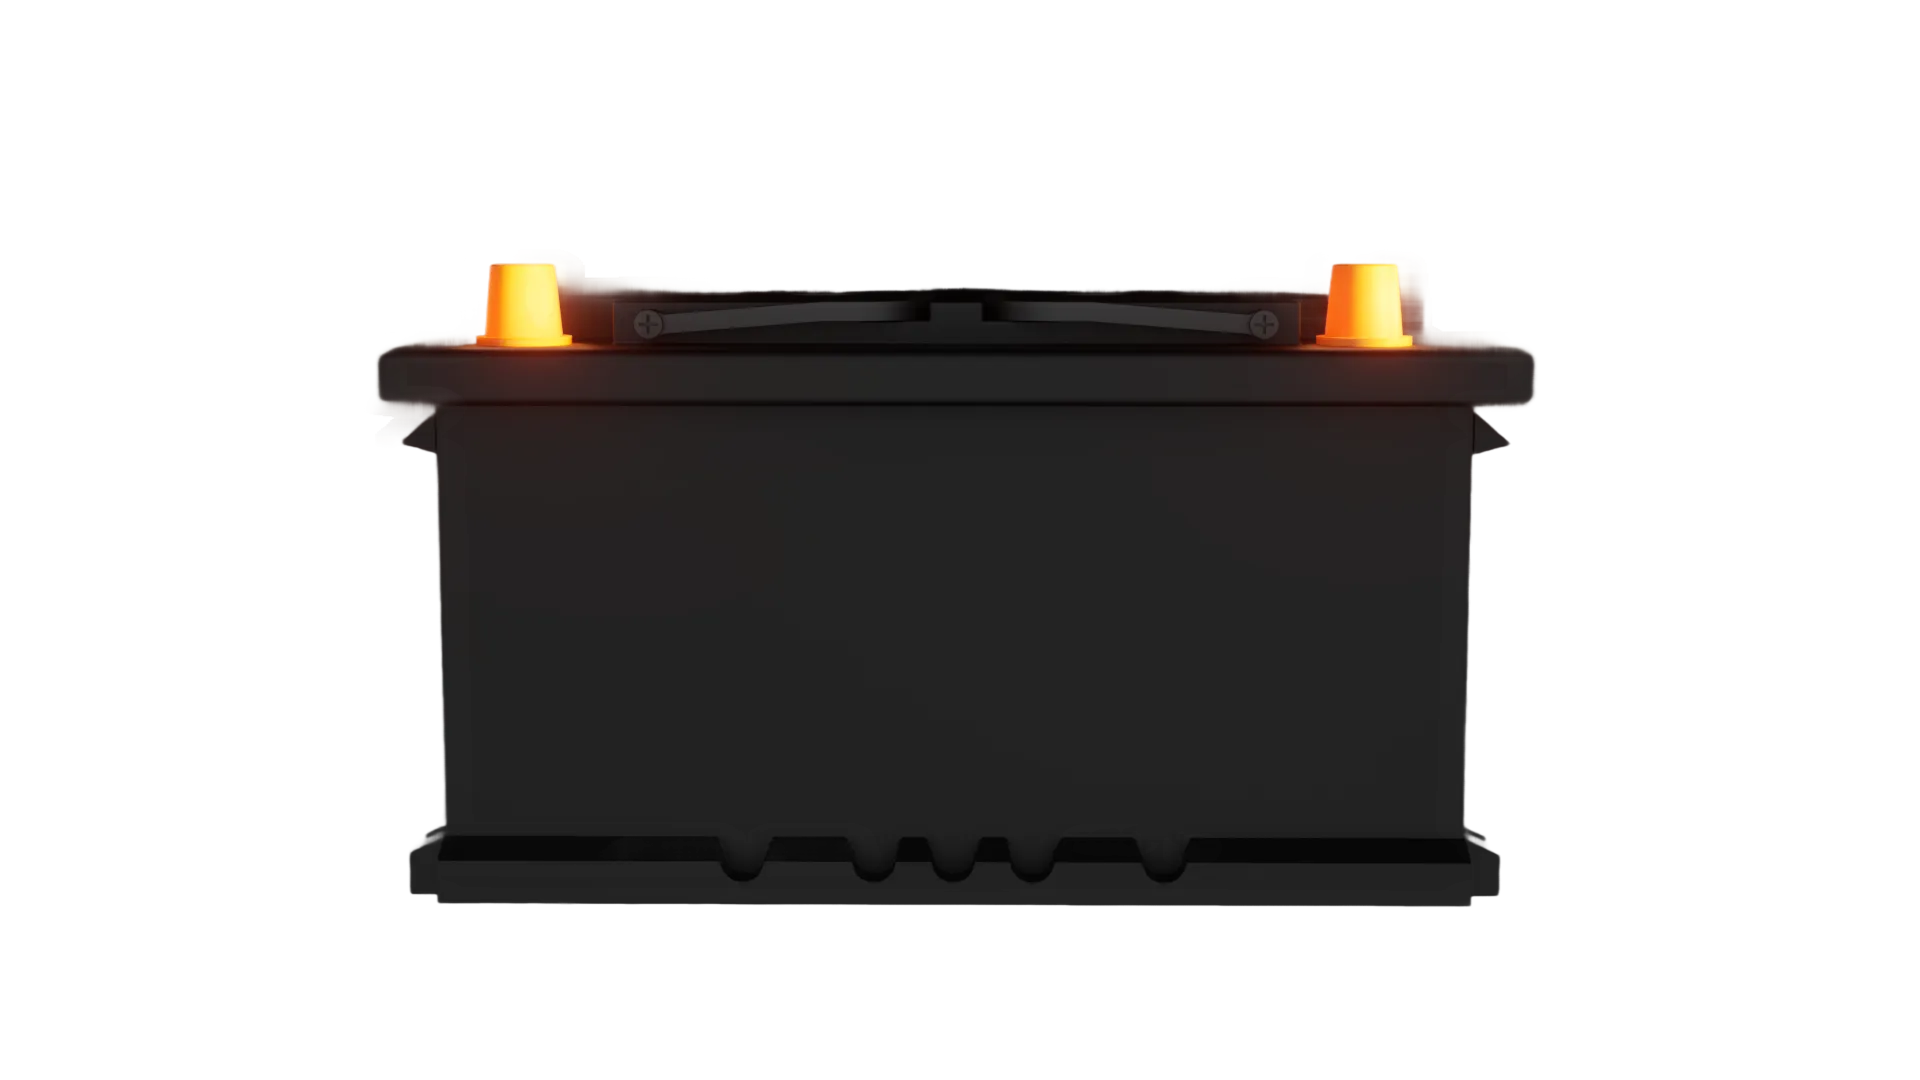
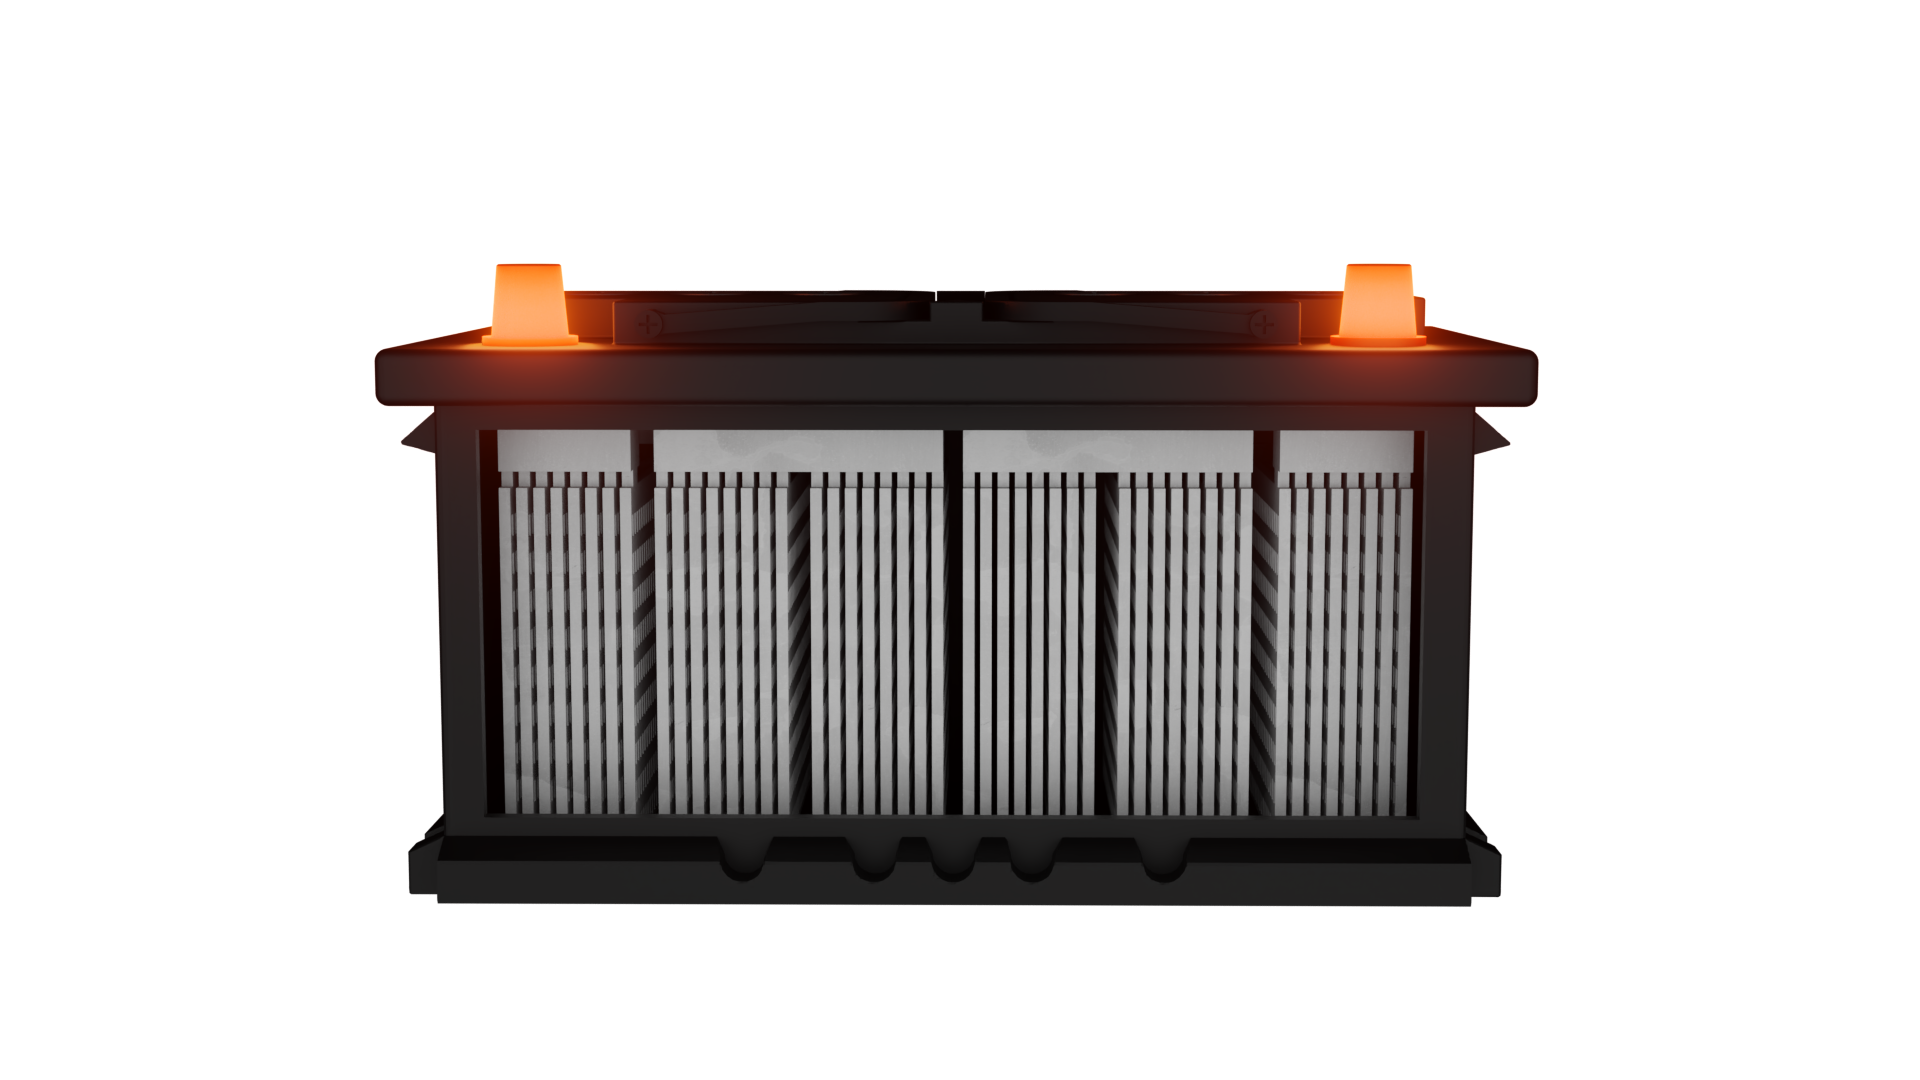
new commit

Changed region(s): [[0.1875, 0.2444, 0.8125, 0.7944], [0.4688, 0.2444, 0.5312, 0.275], [0.2188, 0.7639, 0.25, 0.7944]]

diff --git a/src/components/BuyBatteries.tsx b/src/components/BuyBatteries.tsx
@@ -13,6 +13,7 @@ const stageConfig: Record<BatteryStage, { label: string }> = {
 const batteryLayers = {
   chassis: '/Battery-At-Anystage/new.png',
   internal: '/Battery-At-Anystage/used.png',
+  scrap: '/Battery-At-Anystage/scrap.png',
 }
 
 const stageOrder: BatteryStage[] = ['new', 'used', 'scrap']
@@ -26,6 +27,7 @@ export default function BuyBatteries() {
   const sectionRef = useRef<HTMLElement | null>(null)
   const chassisRef = useRef<HTMLImageElement | null>(null)
   const internalRef = useRef<HTMLImageElement | null>(null)
+  const scrapRef = useRef<HTMLImageElement | null>(null)
   const labelsRef = useRef<HTMLDivElement | null>(null)
   const gsapContextRef = useRef<gsap.Context | null>(null)
   const timelineRef = useRef<gsap.core.Timeline | null>(null)
@@ -55,7 +57,8 @@ export default function BuyBatteries() {
     }
 
     const internal = internalRef.current
-    if (!internal || !gsapContextRef.current) {
+    const scrap = scrapRef.current
+    if (!internal || !scrap || !gsapContextRef.current) {
       setActiveStage(stage)
       return
     }
@@ -66,7 +69,8 @@ export default function BuyBatteries() {
     gsapContextRef.current.add(() => {
       setActiveStage(stage)
 
-      const internalOpacity = stage === 'new' ? 0 : stage === 'used' ? 0.4 : 1
+      const internalOpacity = stage === 'new' ? 0 : stage === 'used' ? 0.4 : 0
+      const scrapOpacity = stage === 'scrap' ? 1 : 0
 
       const tl = gsap.timeline({
         defaults: { duration: transitionDuration, ease: 'power2.inOut' },
@@ -76,6 +80,7 @@ export default function BuyBatteries() {
       })
 
       tl.to(internal, { opacity: internalOpacity }, 0)
+      tl.to(scrap, { opacity: scrapOpacity }, 0)
 
       const activeLabel = labelsRef.current?.querySelector<HTMLButtonElement>(
         `[data-stage="${stage}"]`
@@ -109,12 +114,15 @@ export default function BuyBatteries() {
 
   useEffect(() => {
     const internal = internalRef.current
-    if (!internal) {
+    const scrap = scrapRef.current
+    if (!internal || !scrap) {
       return
     }
 
-    const internalOpacity = activeStage === 'new' ? 0 : activeStage === 'used' ? 0.4 : 1
+    const internalOpacity = activeStage === 'new' ? 0 : activeStage === 'used' ? 0.4 : 0
+    const scrapOpacity = activeStage === 'scrap' ? 1 : 0
     gsap.set(internal, { opacity: internalOpacity })
+    gsap.set(scrap, { opacity: scrapOpacity })
   }, [activeStage])
 
   useEffect(() => {
@@ -223,10 +231,6 @@ export default function BuyBatteries() {
               ref={chassisRef}
               alt="Battery chassis"
               className="absolute inset-0 h-full w-full object-contain"
-              animate={{
-                filter: activeStage === 'scrap' ? 'grayscale(1) brightness(0.85)' : 'grayscale(0) brightness(1)',
-              }}
-              transition={{ duration: 0.6, ease: [0.19, 1, 0.22, 1] }}
               src={batteryLayers.chassis}
             />
             <img
@@ -235,6 +239,13 @@ export default function BuyBatteries() {
               className="absolute inset-0 h-full w-full object-contain opacity-0"
               style={{ willChange: 'opacity' }}
               src={batteryLayers.internal}
+            />
+            <img
+              ref={scrapRef}
+              alt="Battery scrap condition"
+              className="absolute inset-0 h-full w-full object-contain opacity-0"
+              style={{ willChange: 'opacity' }}
+              src={batteryLayers.scrap}
             />
           </div>
         </motion.div>
